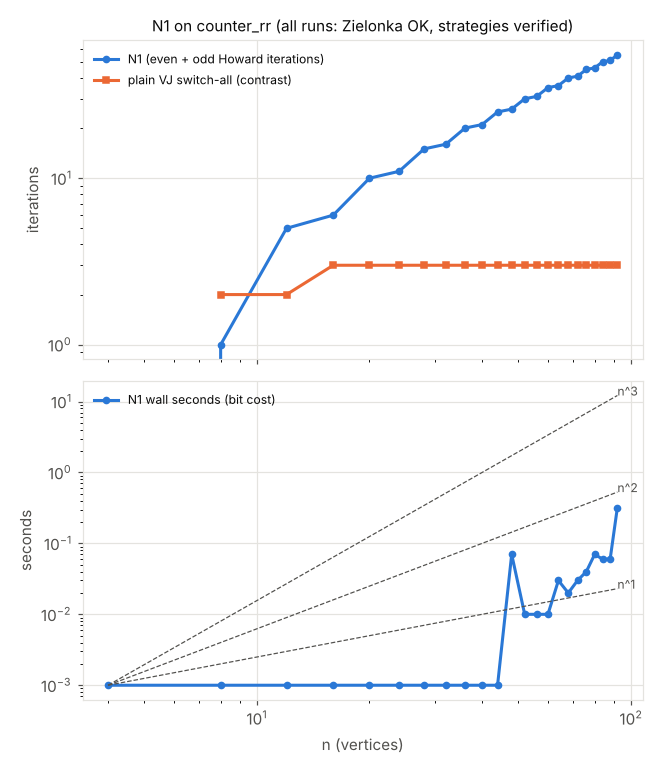
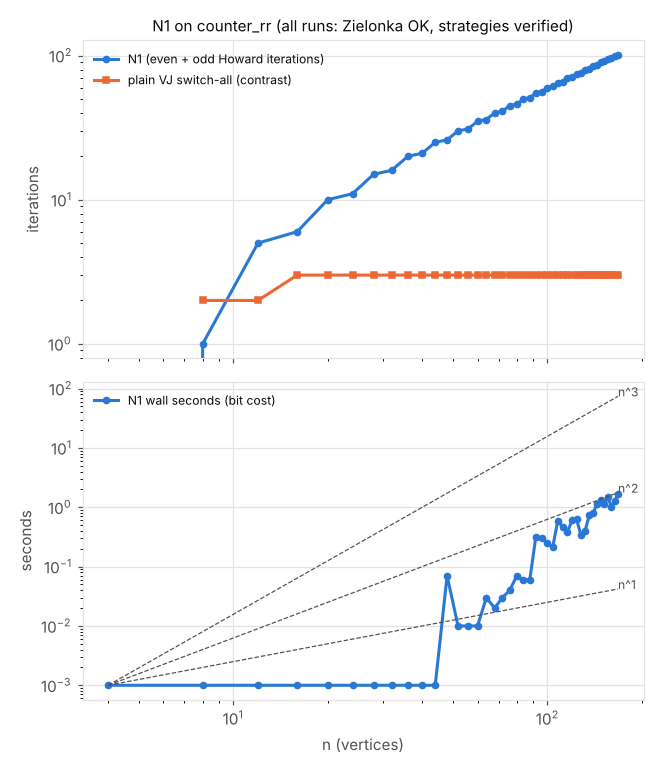
L-NEW box 2: N1 step-2 interim table (5 families), notebook resume point
Claude-Session: https://claude.ai/code/session_01EggUoTNdXL4B6CUsD2UjHR

diff --git a/experiments/new/summarize_step2.py b/experiments/new/summarize_step2.py
@@ -1,0 +1,12 @@
+#!/usr/bin/env python3
+"""One verdict-table row per step-2 CSV (experiments/new/step2/*.csv): N and n range, N1 iterations, last local log-log slopes,
+whether every finished row is checked OK. Usage: summarize_step2.py fam ..."""
+import csv, sys, os, math
+HERE = os.path.dirname(os.path.abspath(__file__))
+for fam in sys.argv[1:]:
+    rows = list(csv.DictReader(open(os.path.join(HERE, "step2", fam + ".csv"))))
+    ok = [r for r in rows if r["even_iters"]]; bad = [r for r in ok if "OK strategies verified" not in r["check"]]
+    to = [r for r in rows if r["secs"].startswith("TIMEOUT")]
+    n = [float(r["n"]) for r in ok]; it = [int(r["even_iters"]) + int(r["odd_iters"]) for r in ok]; s = [max(float(r["secs"]), 1e-3) for r in ok]
+    sl = lambda y: [round(math.log(y[i + 1] / y[i]) / math.log(n[i + 1] / n[i]), 2) for i in range(len(y) - 1) if n[i + 1] > n[i] and y[i] > 0][-3:]
+    print(f"| {fam} | N = {ok[0]['N']}..{ok[-1]['N']} (n = {int(n[0])}..{int(n[-1])}){'; N = ' + to[0]['N'] + ' timeout' if to else ''} | {it[0]} .. {it[-1]} (largest phase {max(int(r['max_phase']) for r in ok)}) | {sl(it)} / {sl(s)} | {len(ok) - len(bad)}/{len(ok)} |")

diff --git a/notes/L-NEW.md b/notes/L-NEW.md
@@ -2,27 +2,18 @@
 Overwrite the top sections; append to "Sources opened" and "Dead ends". Box 1 started 2026-10-18 09:10Z (date -u).
 
 ## Resume point
-HANDOVER (2026-10-18 ~12:10Z, context ~500k; box 1 from 09:09Z). Successor: read this, then docs/new/BOX1-REPORT.md,
-docs/new/N1-disc-anneal.md, docs/new/N1-killer-sketch.md, docs/new/S5S6-renum.md.
-- N1 = "LS24 IncreasingDiscountPI on parity-induced rewards" (credit Loff-Skomra, arXiv 2402.03975 Fig. 12 / 2610.22149
-  Fig. 7.2). Not killed. 12,000 random games agree with Zielonka (strategies verified). Bench polynomial-looking on every
-  family (switchallexp ~2.6N², switchbestexp quadratic, gated_switchallexp quadratic, tc ~linear in n). (PHASE-POLY) is a
-  DATA hypothesis. Evidence weak: Friedmann's families are trivial for Howard from Odd's side (dual). No worst-case lower
-  bound in the literature (verbatim "open" sentence under Sources opened).
-- Killer attempts all failed (list in N1-killer-sketch.md); the lock is an open design problem (path set vs max).
-- S5/S6: not killed on 13 families. Steepest: switchbestexp (Cunningham 341, 928, 1887 at N = 2..4; Zadeh 268 ... 1363 at
-  N = 2..5, ratios falling). Lifted chains (s6_chain.sh) were running at handover; results in
-  experiments/new/out/s6/switchbestexp_{cunningham,zadeh}_N*.txt (out/ is gitignored; rerun to reproduce).
-- C++ N1 sweep (run_anneal_c.sh -> out/anneal/summary_c.csv) still running at handover (switchbestexp N >= 12, then the
-  other families). docs/new/plots/ shows the Python sweep (summary_py.csv, N <= 8).
-- Build: cd experiments/new; g++ -O2 -std=c++17 -o anneal_c anneal.cpp; -o renum2 renum.cpp; -o vjfast vjfast_copy.cpp;
-  -o vjcert vjcert.cpp. Instances (out/inst, gitignored): si/gens.py {randomfacetsubexp,zadehexp,dlmm_bland,dlmm_ML,
-  cunninghamexp} N = 2..14; hard-families/pgsolver_port.py {recursiveladder,switchallexp,switchbestexp} N = 1..14;
-  red/gens_red.py {gated_bland,fhz_padded}; si/gated.py {zadehexp,switchallexp,switchbestexp} -> gated_*;
-  tools/oink/build {tc,tc+,counter_*} N = 1..14.
+SUCCESSOR 1, box 2 (GO 12:51Z, to ~17:50Z; handover check docs/agents/handover-checks/L-NEW.md at 2d17b3f).
+- (0) N1 step 2 on the hard bench: experiments/new/run_step2.sh -> COMMITTED CSVs experiments/new/step2/<fam>.csv (gen command +
+  sha1 per instance, deterministic generators), check_sol2.py (regions = Oink zlk, tl on zlk timeout/error; verify.py strategies),
+  plots docs/new/plots/step2_*.png, verdict table docs/new/N1-step2.md (summarize_step2.py prints its rows). Done so far:
+  counter_rr (N <= 42), counter_m (N <= 42), counter_rob (N <= 20), switchbestexp (N <= 16, N = 17 over 1200 s), switchallexp
+  (N >= 26) all polynomial-looking, every row checked. Running (14:30Z on): chain A = counter_rob, tc+; chain B = switchallexp,
+  recursiveladder, tc, counter_core, counter_dp, counter_ortl, counter_qpt, counter_symsi (NMAX 60, TO 1200).
+- (1) S6 numbering RULE: done 14:20Z, not killed (docs/new/S5S6-renum.md "Box 2 (1)"; rules in experiments/new/instances/s6rule/).
+- Oink zlk logic error on counter_m N = 41, 42 (zlk.cpp:589): side finding for L-COMP, in N1-step2.md.
 
 ## Queue
-0. (Lead 12:14Z, first for the successor) S6 on switchbestexp: extract a numbering RULE from the climbed numberings
+0. DONE box 2 14:20Z (rule class: not killed, S5S6-renum.md). (Lead 12:14Z) S6 on switchbestexp: extract a numbering RULE from the climbed numberings
    (instances/s6/*.perm; what the climb does to Friedmann's bit/lane structure, labels via pgsolver_port), generate
    N = 2..8 from the rule alone, run vjfast cunningham. That decides. Done 12:35Z: lift.py MECHANICALLY (no climbing) from
    N = 4 to N = 5..8 gives 3886, 4719, 5626, 6602 (polynomial), so a rule must do better than the lift. No Lead re-run before a
@@ -78,6 +69,9 @@ docs/new/N1-disc-anneal.md, docs/new/N1-killer-sketch.md, docs/new/S5S6-renum.md
   late (a single Odd self-loop of priority 1 reached through high even priorities) forces the climb in the last phase.
 
 ## Things only I know
+- out/ does not survive a container: cite only committed CSVs. Python Zielonka is exponential on counter_rr/counter_m (b ~1.6):
+  never use check_sol.py as the sweep checker there; check_sol2.py (Oink zlk, tl fallback) is the sweep checker.
+- Never edit a running bash script in place with an editor that keeps the inode (bash reads it lazily); sed -i is safe (new inode).
 - N1 stop test: "sigma has no VJ improving switch" is WRONG as a stop test (a region-correct sigma need not be VJ-optimal;
   tc 4 stalled at j = 102 forever). The certificate (sign of values + harness/verify.py on both restricted strategies) is right.
 - Merging equal-parity neighbouring priorities alone kills Friedmann's switchallexp for plain VJ switch-all (10, 7, 9, 11, 13 for

diff --git a/docs/new/N1-step2.md b/docs/new/N1-step2.md
@@ -1,0 +1,36 @@
+# N1 gauntlet step 2: the M1 hard bench (L-NEW box 2, 2026-10-18 from 12:51Z by date -u)
+
+N1 = LS24 IncreasingDiscountPI on parity-induced rewards (docs/new/N1-disc-anneal.md, exact pseudocode there), C++ port
+experiments/new/anneal.cpp (input priorities, no merging = --nocompress semantics; equal to anneal.py on 1,000 games, xcheck_c.py).
+Step 2 (TARGET.md section 5): agreement with Zielonka on 10,000 random games (done in box 1: 12,000, strategies verified) AND on
+every hard family, runtime growth plotted and recorded. This file covers the hard families. Status: DATA, not a claim (D1).
+
+## How every number here can be reproduced (lost out/ loses no evidence)
+- Runner: experiments/new/run_step2.sh. Instances are generated by deterministic committed generators (no seeds): Oink tools at
+  the pin in scripts/setup_oink.sh (8fbf0a7) or experiments/hard-families/pgsolver_port.py. Column `gen` of each CSV is the exact
+  command, column `sha1` the sha1 of the generated file (regenerate, compare).
+- Raw per-run data (COMMITTED): experiments/new/step2/<family>.csv, one row per N: n, plain VJ switch-all count (contrast; TO120 =
+  over 120 s), N1 phases, even and odd Howard iterations, largest phase, wall seconds, check.
+- Check per row: experiments/new/check_sol2.py: regions equal Oink zlk (Zielonka, C++; on zlk timeout or error the row says
+  "oink tl (zlk ...)": Oink's tl as reference) AND harness/verify.py on both players' positional strategies. Rows of the first
+  session minutes (switchbestexp, counter_rr N <= 27) were checked with check_sol.py (Python Zielonka + verify.py), labelled
+  "zielonka OK".
+- Plots: docs/new/plots/step2_<family>.png (experiments/new/plot_step2.py): iterations and wall seconds against n, log-log, with
+  n^1, n^2, n^3 references. Local slope = fitted exponent between consecutive sizes.
+- A family stops at its first N1 timeout (1200 s per run, 4 cores shared by 2-3 jobs); a timeout here is wall time at bit cost,
+  not an iteration count.
+
+## Side finding (for L-COMP; not N1's)
+Oink zlk (pinned 8fbf0a7) aborts with "solving error: logic error (at src/solvers/zlk.cpp:589)" (exit 255) after ~300 s on
+counter_m N = 41 (sha1 b9d6a3d22f71c9cdb91076b0d8232078aabf65d3) and N = 42 (76ef4ebbc510dcbbc7e19f90aa3736dff2cc8bcd): no winning
+successor found for a vertex when building the strategy. N1's solutions on both pass with tl as reference and verify.py.
+
+## Verdict per family (filled as the sweeps finish)
+| family | N (n) covered | N1 iterations (even + odd) | local slope in n, iterations / seconds (last sizes) | all rows checked | step-2 verdict |
+| --- | --- | --- | --- | --- | --- |
+| counter_rr | N = 1..42 (n = 4..168) | 0 .. 101 (largest phase 1) | [0.41, 1.65, 0.41] / [-15.62, 8.96, 11.94] | 42/42 |
+| counter_m | N = 1..42 (n = 6..129) | 1 .. 84 (largest phase 1) | [1.55, 0.52, 1.55] / [-26.99, -7.13, 15.42] | 42/42 |
+| counter_rob | N = 1..20 (n = 14..1363) | 12 .. 2733 (largest phase 401) | [1.04, 1.04, 1.04] / [5.14, 2.79, 4.82] | 20/20 |
+| switchbestexp | N = 1..16 (n = 35..410); N = 17 timeout | 27 .. 1955 (largest phase 102) | [1.97, 1.95, 1.96] / [6.57, -6.73, 2.7] | 16/16 |
+| switchallexp | N = 1..26 (n = 21..371) | 14 .. 2236 (largest phase 57) | [1.94, 1.94, 1.94] / [4.58, 4.51, 5.29] | 26/26 |
+(interim table 15:30Z; tc+, recursiveladder, tc, counter_core, counter_dp, counter_ortl, counter_qpt, counter_symsi running; switchallexp still running)
